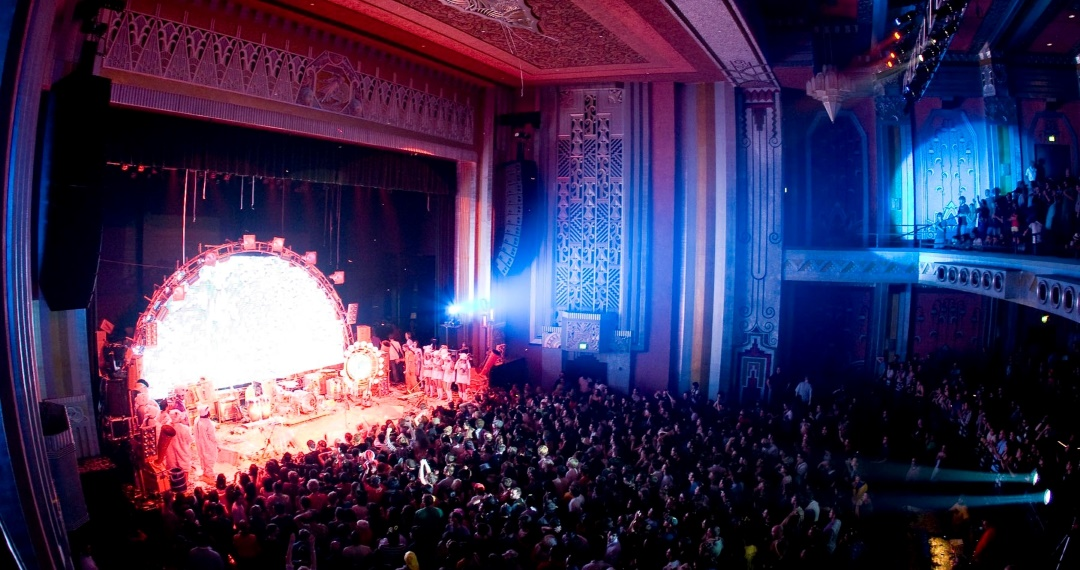
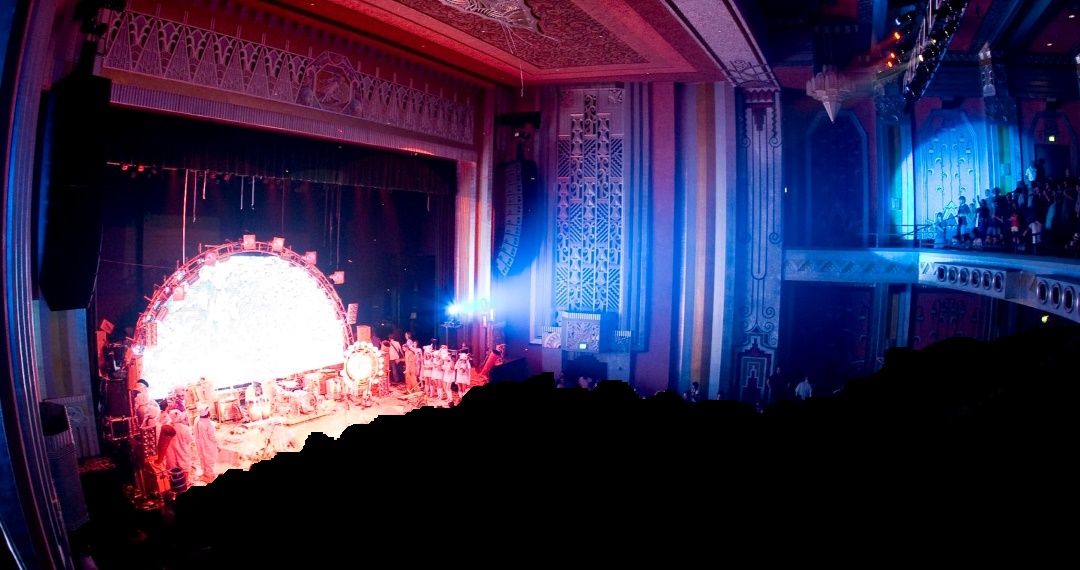
UPDATE: Homepage + Sidebar

diff --git a/homePage/index.html b/homePage/index.html
@@ -16,11 +16,10 @@
         <!-- Sidebar -->
         <div class="sidebar">
         <ul>
-            <li><a href="index.html"><img src="Home.png" alt="Home"></a></li> 
-            <li><a href="personalProfile.html"><img src="icons8-user-default-64.png" alt="Profile"></a></li>
-            <li><a href="artists.html"><img src="Artist.png" alt="Artists"></a></li>
-            <li><a href="artistRev.html"><img src="Button toggleable.png" alt="Add Artist Review"></a></li>
-            <li><a href="venueRev.html"><img src="Button toggleable.png" alt="Add Venue Review"></a></li>
+            <li><a href="index.html"><img src="../Images/Home.png" alt="Home"></a></li> 
+            <li><a href="../personalProfilePage/personalProfile.html"><img src="../Images/user.png" alt="Profile"></a></li>
+            <li><a href="artistRev.html"><img src="../Images/artist-rating.png" alt="Add Artist Review"></a></li>
+            <li><a href="venueRev.html"><img src="../Images/venue-rating.png" alt="Add Venue Review"></a></li>
         </ul>
         </div>
 
@@ -28,7 +27,8 @@
         <main class="content">
         <!-- HEADER IMAGE -->
         <header class="header">
-            <img src="images/header.jpg" alt="Header Image" />
+            <img src="images/header.jpg" alt="Header Image" id="background" />
+            <img src="images/header_crowd.png" id="crowd"/>
         </header>
 
         <!-- HOME PAGE CONTENT -->
@@ -39,11 +39,11 @@
             <h3>Artists</h3>
             <div class="scrollmenu">
                 <div class="scrollcontainer">
-                    <img class="card" src="images/sabrina-carpenter.jpg" alt="Sabrina Carpenter"> 
+                    <a href="../artistsPage/artists.html"> <img class="card" src="images/sabrina-carpenter.jpg" alt="Sabrina Carpenter"> </a>
                     <div class="scrollname"> <p>Sabrina Carpenter</p> </div>
                 </div>
                 <div class="scrollcontainer">
-                    <img class="card" src="images/tyler-the-creator.jpg" alt="Sabrina Carpenter"> 
+                    <img class="card" src="images/tyler-the-creator.jpg" alt="Tyler The Creator"> 
                     <div class="scrollname"> <p>Tyler The Creator</p> </div>
                 </div>
             </div>
@@ -53,23 +53,23 @@
             <h3 style="color:pink">Venues</h3>
             <div class="scrollmenu">
                 <div class="scrollcontainer">
-                    <img class="card" src="images/greek-theater.jpg" alt="Sabrina Carpenter"> 
+                    <img class="card" src="images/greek-theater.jpg" alt="The Greek Theater"> 
                     <div class="scrollname"> <p>The Greek Theater</p> </div>
                 </div>
                 <div class="scrollcontainer">
-                    <img class="card" src="images/kia-forum.jpg" alt="Sabrina Carpenter"> 
+                    <img class="card" src="images/kia-forum.jpg" alt="Kia Forum"> 
                     <div class="scrollname"> <p>Kia Forum</p> </div>
                 </div>
                 <div class="scrollcontainer">
-                    <img class="card" src="images/fox-theater.jpg" alt="Sabrina Carpenter"> 
+                    <img class="card" src="images/fox-theater.jpg" alt="The Fox Theater"> 
                     <div class="scrollname"> <p>The Fox Theater</p> </div>  
                 </div>
                 <div class="scrollcontainer">
-                    <img class="card" src="images/glass-house.jpg" alt="Sabrina Carpenter"> 
+                    <img class="card" src="images/glass-house.jpg" alt="The Glass House"> 
                     <div class="scrollname"> <p>The Glass House</p> </div>
                 </div>
                 <div class="scrollcontainer">
-                    <img class="card" src="images/walt-disney.jpeg" alt="Sabrina Carpenter"> 
+                    <img class="card" src="images/walt-disney.jpeg" alt="Walt Disney Concert Hall"> 
                     <div class="scrollname"> <p>Walt Disney Concert Hall</p> </div>
                 </div>
             </div>

diff --git a/homePage/index.css b/homePage/index.css
@@ -1,7 +1,7 @@
 /* GENERAL LAYOUT */
 body {
   margin: 0;
-  font-family: Arial, sans-serif;
+  font-family: Georgia, serif;
   background-color: #2c1a64;
   color: #ffffff;
 }
@@ -11,40 +11,6 @@ body {
   height: 100vh;
 }
 
-/* SIDEBAR */
-.sidebar {
-  width: 180px;
-  background-color: #1b0e44;
-  display: flex;
-  flex-direction: column;
-  align-items: center;
-  padding-top: 20px;
-}
-
-.sidebar ul {
-  list-style: none;
-  padding: 0;
-  margin: 0;
-}
-
-.sidebar li {
-  margin: 20px 0;
-}
-
-.sidebar button {
-  background-color: #4f378b;
-  border: none;
-  color: white;
-  padding: 10px 15px;
-  border-radius: 8px;
-  cursor: pointer;
-  transition: 0.3s;
-}
-
-.sidebar button:hover {
-  background-color: #6a50b2;
-}
-
 /* MAIN CONTENT */
 .content {
   flex: 1;
@@ -52,11 +18,34 @@ body {
 }
 
 /* HEADER IMAGE */
+.header{
+  position:relative;
+  overflow:hidden;
+  display: flex;
+  justify-content: center;
+}
+
 .header img {
   width: 100%;
   height: 250px;
   object-fit: cover;
   border-bottom: 3px solid #6a50b2;
+}
+.header h2{
+  position: absolute;
+  z-index: 2;
+  font-size:50px;
+  margin-left: 20px;
+  margin-top: 40px;
+}
+
+#background{
+  z-index: 1;
+  position:absolute
+}
+#crowd{
+  z-index: 3;
+  position:relative
 }
 
 /* HOMEPAGE CONTENT */

diff --git a/homePage/index.js b/homePage/index.js
@@ -12,3 +12,21 @@ document.addEventListener('DOMContentLoaded', () => {
 
     populate();
 });
+
+let bg = document.getElementById("background");
+let crowd = document.getElementById("crowd");
+let header = document.getElementById("text");
+
+let rates = {
+    bg: 0.05,
+    crowd:0.5,
+  }
+
+  const handleScroll = () => {
+    let scrollDistance = window.scrollY;
+  
+    bg.style.top = scrollDistance * rates.bg + 'px';
+    crowd.style.top = scrollDistance * rates.crowd + 'px';
+  }
+
+  window.addEventListener('scroll', handleScroll)

diff --git a/styles.css b/styles.css
@@ -3,3 +3,31 @@
 body{
     background-color: #1b1c51;
 }
+
+/* Sidebar */ 
+.sidebar {
+  width: 80px;
+  background-color: #0b0844;
+  display: flex;
+  flex-direction: column;
+  align-items: center;
+  padding-top: 20px;
+}
+
+.sidebar ul {
+  list-style-type: none;
+  padding: 0;
+  text-align: center;
+}
+
+.sidebar li {
+  margin: 30px 0;
+  color: white;
+  font-size: 0.9rem;
+}
+
+.sidebar img {
+  width: 50px;
+  height: 50px;
+  filter: brightness(0) invert(1);
+}

diff --git a/personalProfilePage/personalProfile.css b/personalProfilePage/personalProfile.css
@@ -28,7 +28,7 @@ body {
 }
 
 .sidebar li {
-  margin: 15px 0;
+  margin: 30px 0;
   color: white;
   font-size: 0.9rem;
 }
@@ -36,6 +36,7 @@ body {
 .sidebar img {
   width: 50px;
   height: 50px;
+  filter: brightness(0) invert(1);
 }
 
 /* Main content */
